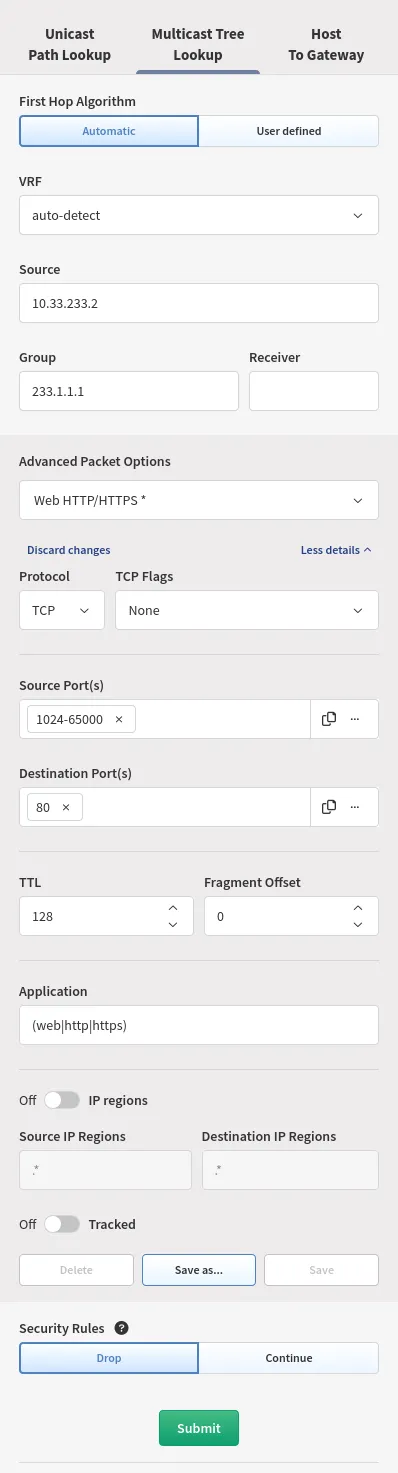
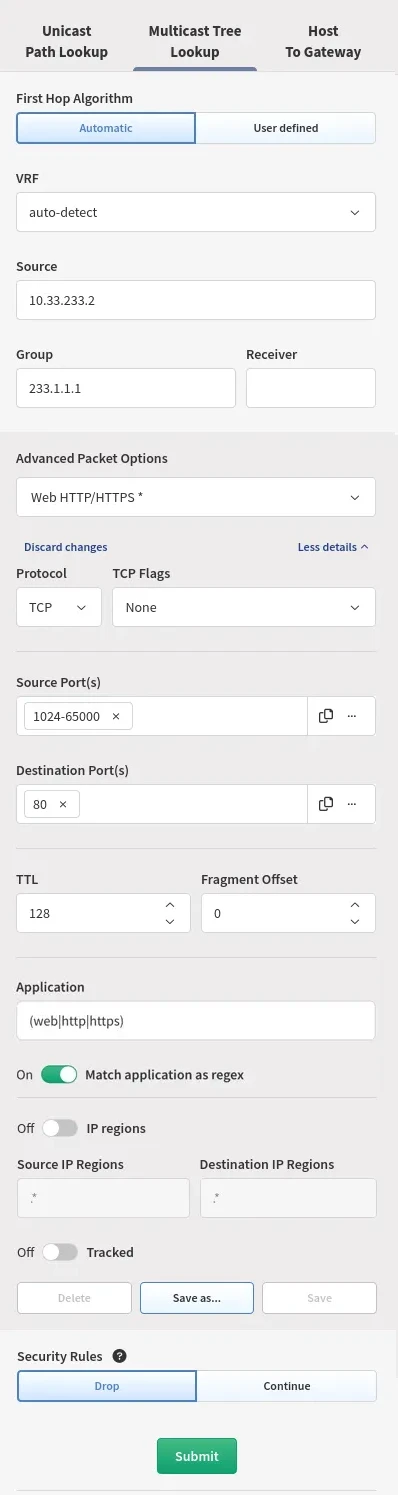
NIM-18708: introduce regex toggle for path lookup application

diff --git a/docs/IP_Fabric_GUI/diagrams/how_to_use_path-lookup.md b/docs/IP_Fabric_GUI/diagrams/how_to_use_path-lookup.md
@@ -76,6 +76,8 @@ When evaluating security rules and security appliances on the path check traffic
 
 It's almost impossible to standardize application names across all vendors. You can define your own application name with regular expressions.
 
+From 7.12, you can also disable regex matching on application names.
+
 
 !!! info
 

diff --git a/docs/releases/release_notes/7.12.md b/docs/releases/release_notes/7.12.md
@@ -31,7 +31,7 @@ description: In this section, you can find the release notes for `v7.12` release
 
 ### New Features
 
-.
+- Path lookup now supports disabling regex matching for the Application value, allowing you to use a plain string instead.
 
 ### Improvements
 
